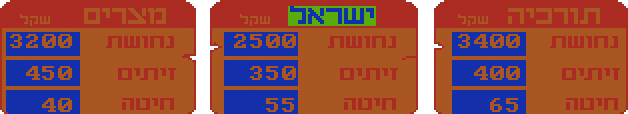
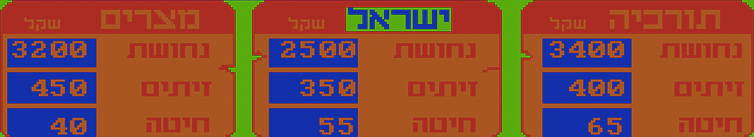
fix weather, fix main/options graphics

diff --git a/SeaMerchantApp/src/com/example/seamerchant/scene/Main.java b/SeaMerchantApp/src/com/example/seamerchant/scene/Main.java
@@ -5,6 +5,7 @@ import org.andengine.entity.scene.background.Background;
 import org.andengine.ui.activity.SimpleBaseGameActivity;
 
 abstract public class Main extends Base {
+	private static final float OFFSET_LEFT = 16.0f;
 	protected SideBanner mSideBanner;
 	protected LowerBanner mLowerBanner;
 	
@@ -18,9 +19,10 @@ abstract public class Main extends Base {
 	protected Scene initScene() {
 
 		final Scene mainScene = new Scene();
-		mainScene.setBackground(new Background(0.0f, 0.7098f, 0.05882f));
+		mainScene.setBackground(new Background(0.34901960784314f, 0.67058823529412f, 0.05490196078431f));
 		
 		Scene scene = initSceneImpl();
+		scene.setPosition(OFFSET_LEFT, 0);
 		Scene sideScene = mSideBanner.initScene();
 		Scene lowerScene = mLowerBanner.initScene();
 	    scene.setBackgroundEnabled(false);

diff --git a/SeaMerchantApp/src/com/example/seamerchant/SceneManager.java b/SeaMerchantApp/src/com/example/seamerchant/SceneManager.java
@@ -12,6 +12,7 @@ import com.example.seamerchant.scene.LowerBanner;
 import com.example.seamerchant.scene.NewDay;
 import com.example.seamerchant.scene.Options;
 import com.example.seamerchant.scene.SideBanner;
+import com.example.seamerchant.scene.Weather;
 import com.example.seamerchant.scene.Welcome;
 
 public class SceneManager {
@@ -101,7 +102,7 @@ public class SceneManager {
 	}
 
 	private void startWeatherScene() {
-		final Base wr = new NewDay(mBaseActivity);
+		final Base wr = new Weather(mBaseActivity);
 		wr.loadResourcesAndScene();
 		mEngine.setScene(wr.getScene());
 		mEngine.registerUpdateHandler(new TimerHandler(3f, new ITimerCallback() {

diff --git a/SeaMerchantApp/src/com/example/seamerchant/scene/LowerBanner.java b/SeaMerchantApp/src/com/example/seamerchant/scene/LowerBanner.java
@@ -14,8 +14,8 @@ import org.andengine.util.adt.io.in.IInputStreamOpener;
 import org.andengine.util.debug.Debug;
 
 public class LowerBanner extends Base {
-	private static final float OFFSET_TOP = 286.0f;
-	private static final float OFFSET_LEFT = 2.0f;
+	private static final float OFFSET_TOP = 343.0f;
+	private static final float OFFSET_LEFT = 23.0f;
 	private TextureRegion mBgTextureRegion;
 
 	public LowerBanner(SimpleBaseGameActivity baseActivity) {

diff --git a/SeaMerchantApp/src/com/example/seamerchant/scene/Weather.java b/SeaMerchantApp/src/com/example/seamerchant/scene/Weather.java
@@ -5,7 +5,7 @@ import org.andengine.ui.activity.SimpleBaseGameActivity;
 public class Weather extends Splash {
 	
 	
-	private static final String FILE_PATTERN = "gfx/weater_%s.png";
+	private static final String FILE_PATTERN = "gfx/weather_%s.png";
 	private static final String CALM = "calm";
 	private static final String STORM = "storm";
 

diff --git a/SeaMerchantApp/src/com/example/seamerchant/scene/SideBanner.java b/SeaMerchantApp/src/com/example/seamerchant/scene/SideBanner.java
@@ -15,7 +15,7 @@ import org.andengine.util.debug.Debug;
 
 public class SideBanner extends Base {
 
-	private static final float OFFSET_LEFT = 482.0f;
+	private static final float OFFSET_LEFT = 610.0f;
 	private TextureRegion mBgTextureRegion;
 
 	public SideBanner(SimpleBaseGameActivity baseActivity) {
